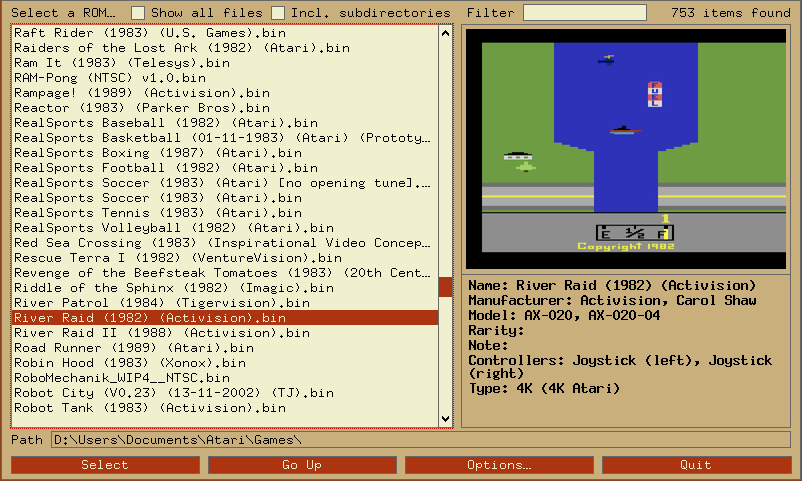
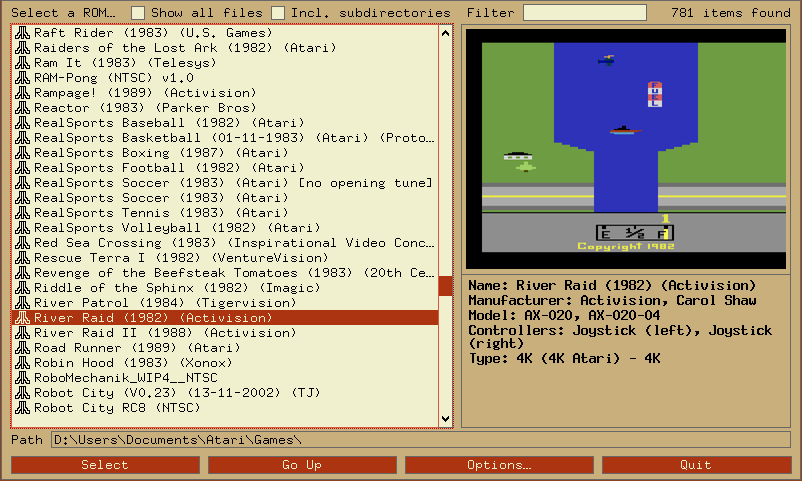
added option to show/hide file extensions updated doc

Changed region(s): [[0.0, 0.0624, 0.5299, 0.8732], [0.5611, 0.6861, 0.9663, 0.842]]

diff --git a/docs/index.html b/docs/index.html
@@ -2278,6 +2278,11 @@
       <td>Control + R</td>
       <td>Control + R</td>
     </tr>
+    <tr>
+      <td>Toggle file extensions display</td>
+      <td>Control + X</td>
+      <td>Control + X</td>
+    </tr>
   </table>
 
   <p><b>UI Keys in Text Editing areas (cannot be remapped)</b></p>
@@ -3230,6 +3235,17 @@
     </tr>
 
     <tr>
+      <td><pre>-launcherextensions &lt;1|0&gt;</pre></td>
+      <td>Display file extensions in the ROM launcher.</td>
+    </tr>
+
+    <tr>
+      <td><pre>-launchersubdirs &lt;1|0&gt;</pre></td>
+      <td>Specifies whether the ROM launcher lists files from current
+        directory only or all subdirectories too.</td>
+    </tr>
+
+    <tr>
       <td><pre>-romviewer &lt;float&gt;</pre></td>
       <td>Hide ROM Info Viewer in ROM launcher mode (0) or use the
         given zoom level.
@@ -4157,7 +4173,7 @@
   <p>ROM Info Viewer width at 40%, UI sized 800x480, small launcher font:</p>
   <img src="graphics/rominfo_1x_small.png">
 
-  <p>ROM Info Viewer width at 32%, UI sized 1000x720, medium launcher font:</p>
+  <p>ROM Info Viewer width at 32%, UI sized 900x720, medium launcher font:</p>
   <img src="graphics/rominfo_1x_large.png">
 
   <p>ROM Info Viewer width at 50% , UI sized 1280x900, large launcher font:</p>
